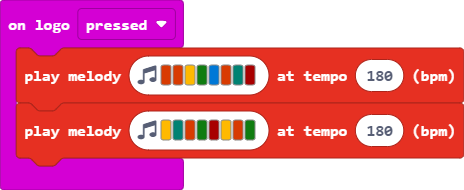
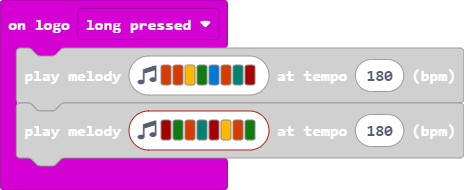
Update main.blocks, main.ts

diff --git a/main.ts b/main.ts
@@ -1,3 +1,7 @@
+input.onLogoEvent(TouchButtonEvent.LongPressed, function () {
+    music.playMelody("B B A G E B F C5 ", 180)
+    music.playMelody("C5 G B F C5 A B G ", 180)
+})
 input.onButtonPressed(Button.A, function () {
     basic.showIcon(IconNames.Yes)
     basic.showString("Now B")
@@ -31,10 +35,6 @@ input.onGesture(Gesture.Shake, function () {
         . # . # .
         `)
     basic.showString("Don't flip me")
-})
-input.onLogoEvent(TouchButtonEvent.Pressed, function () {
-    music.playMelody("B B A G E B F C5 ", 180)
-    music.playMelody("A F B G C5 A B G ", 180)
 })
 basic.showString("Hello!")
 basic.showIcon(IconNames.Happy)
